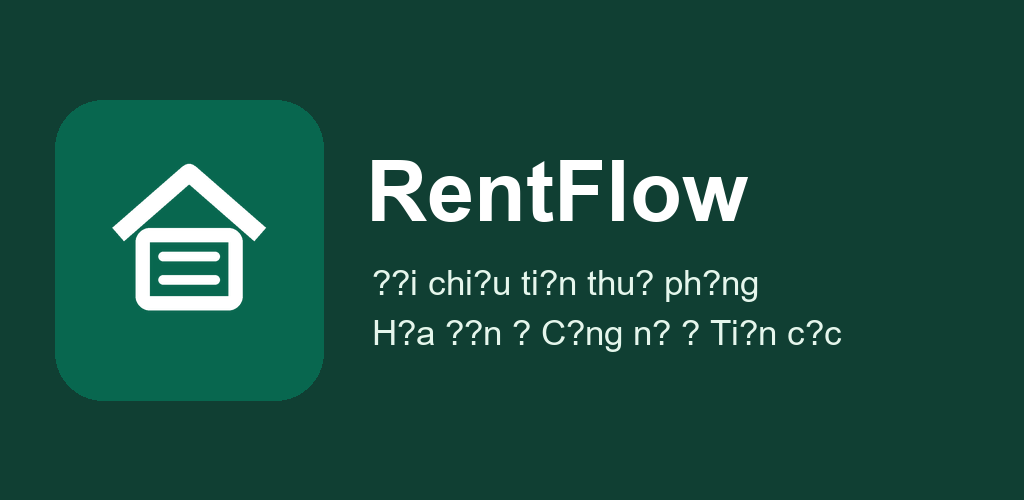
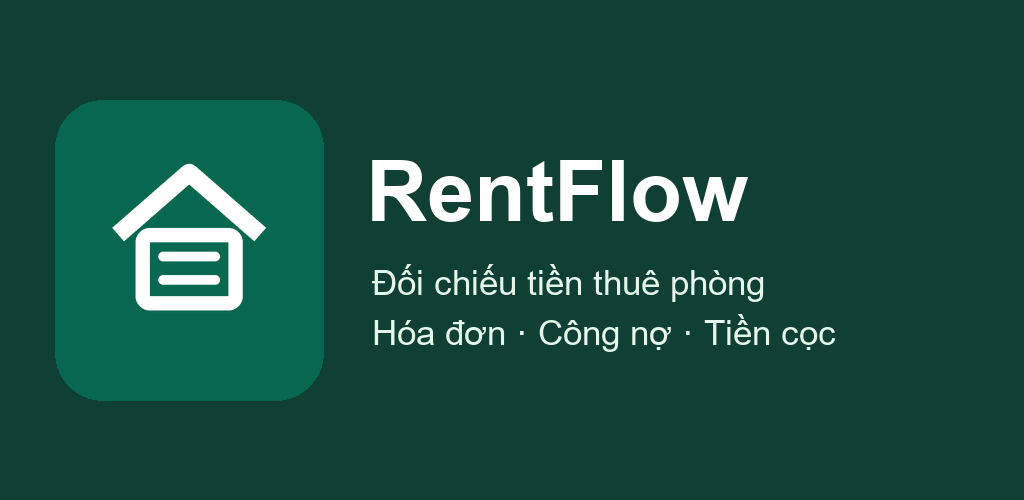
test: verify local HTTPS and polish Vietnamese release UI

Changed region(s): [[0.4375, 0.63, 0.8438, 0.72], [0.3438, 0.54, 0.75, 0.6], [0.375, 0.63, 0.4062, 0.69]]

diff --git a/mobile/App.tsx b/mobile/App.tsx
@@ -28,6 +28,7 @@ type Ledger = Lease & {
 const status: Record<string, string> = {
   ACTIVE: 'Đang thuê', DRAFT: 'Nháp', TERMINATED: 'Đã trả phòng', EXPIRED: 'Hết hạn',
   PENDING: 'Chờ xác nhận', CONFIRMED: 'Đã xác nhận', REVERSED: 'Đã đảo',
+  ISSUED: 'Chưa thanh toán', PARTIALLY_PAID: 'Đã trả một phần', PAID: 'Đã thanh toán',
   CASH: 'Tiền mặt', TRANSFER: 'Chuyển khoản', DEPOSIT: 'Bù cọc',
 };
 
@@ -111,7 +112,7 @@ export default function App() {
     .sort((a, b) => b.billingPeriod.localeCompare(a.billingPeriod))[0];
   const date = (value: string) => new Date(value).toLocaleDateString('vi-VN', { timeZone: 'Asia/Ho_Chi_Minh' });
   const website = (path: string) => void run(async () => {
-    if (!origin) throw new Error('Ch?a c? ??a ch? website.');
+    if (!origin) throw new Error('Chưa có địa chỉ website.');
     await Linking.openURL(origin + path);
   });
 
@@ -128,10 +129,10 @@ export default function App() {
     </View> : <>
       <Text style={styles.heading}>{dash.actor.fullName}</Text>
       <View style={styles.card}>
-        <Text style={styles.heading}>T?ng quan</Text>
-        <Text>{activeLease ? 'Ph?ng ' + activeLease.room.roomCode : 'Ch?a c? ph?ng ?ang thu?.'}</Text>
-        {latest ? <Text>K? {latest.billingPeriod} ? T?ng {money(latest.totalAmount)} ? ?? thu {money(latest.paidAmount)} ? C?n n? {money(latest.remainingAmount)}</Text> : <Text>Ch?a c? h?a ??n cho ph?ng ?ang thu?.</Text>}
-        <Button label="T?i d? li?u m?i" disabled={busy} press={() => void run(async () => {
+        <Text style={styles.heading}>Tổng quan</Text>
+        <Text>{activeLease ? 'Phòng ' + activeLease.room.roomCode : 'Chưa có phòng đang thuê.'}</Text>
+        {latest ? <Text>Kỳ {latest.billingPeriod} · Tổng {money(latest.totalAmount)} · Đã thu {money(latest.paidAmount)} · Còn nợ {money(latest.remainingAmount)}</Text> : <Text>Chưa có hóa đơn cho phòng đang thuê.</Text>}
+        <Button label="Tải dữ liệu mới" disabled={busy} press={() => void run(async () => {
           setDash(await request<Dashboard>('overview', token));
           if (ledger) setLedger(await request<Ledger>('leases/' + ledger.id + '/ledger', token));
         })} />
@@ -151,8 +152,8 @@ export default function App() {
       {ledger && <View style={styles.card}>
         <Text style={styles.heading}>Phòng {ledger.room.roomCode}</Text>
         <Text>{new Date(ledger.startDate).toLocaleDateString('vi-VN')} – {new Date(ledger.endDate).toLocaleDateString('vi-VN')}</Text>
-        <Text>Ti?n thu? {money(ledger.rentAmount)} ? {status[ledger.status] ?? ledger.status}</Text>
-        {ledger.tenants.filter(member => member.representative).map(member => <Text key={member.tenant.fullName}>??i di?n {member.tenant.fullName}</Text>)}
+        <Text>Tiền thuê {money(ledger.rentAmount)} · {status[ledger.status] ?? ledger.status}</Text>
+        {ledger.tenants.filter(member => member.representative).map(member => <Text key={member.tenant.fullName}>Đại diện {member.tenant.fullName}</Text>)}
         <Button label={settlement ? 'Thu gọn quyết toán' : 'Xem quyết toán'} disabled={busy} press={() => setSettlement(!settlement)} />
         {settlement && <>
           <Text>Cọc thỏa thuận {money(ledger.depositAgreed)} · Thực nhận {money(ledger.depositReceived)}</Text>
@@ -164,6 +165,7 @@ export default function App() {
         </>}
         {ledger.invoices.map(invoice => <View key={invoice.id} style={styles.section}>
           <Text style={styles.heading}>Hóa đơn {invoice.billingPeriod}</Text>
+          <Text>Hạn {date(invoice.dueDate)} · {status[invoice.status]}</Text>
           <Text>Tổng {money(invoice.totalAmount)} · Đã thu {money(invoice.paidAmount)} · Còn nợ {money(invoice.remainingAmount)}</Text>
           <Button label={expanded === invoice.id ? 'Thu gọn cách tính' : 'Xem cách tính'} disabled={busy} press={() => setExpanded(expanded === invoice.id ? '' : invoice.id)} />
           {expanded === invoice.id && <>
@@ -180,11 +182,11 @@ export default function App() {
         {dash.notifications.length ? dash.notifications.map(entry => <Text key={entry.id}>{entry.message}</Text>) : <Text>Chưa có thông báo.</Text>}
       </View>
       <View style={styles.card}>
-        <Text style={styles.heading}>T?i kho?n v? quy?n ri?ng t?</Text>
+        <Text style={styles.heading}>Tài khoản và quyền riêng tư</Text>
         <Text>{dash.actor.email}</Text>
-        <Button label="Quy?n ri?ng t?" disabled={busy} press={() => website('/quyen-rieng-tu')} />
-        <Button label="Y?u c?u x?a t?i kho?n" disabled={busy} press={() => website('/xoa-tai-khoan')} />
-        <Button label="Li?n h? h? tr?" disabled={busy} press={() => void run(async () => { await Linking.openURL('mailto:hoangphung.tech@gmail.com'); })} />
+        <Button label="Quyền riêng tư" disabled={busy} press={() => website('/quyen-rieng-tu')} />
+        <Button label="Yêu cầu xóa tài khoản" disabled={busy} press={() => website('/xoa-tai-khoan')} />
+        <Button label="Liên hệ hỗ trợ" disabled={busy} press={() => void run(async () => { await Linking.openURL('mailto:hoangphung.tech@gmail.com'); })} />
       </View>
     </>}
   </ScrollView>;

diff --git a/backend/prisma/seed.ts b/backend/prisma/seed.ts
@@ -296,11 +296,11 @@ async function main() {
   }
   const representative = await prisma.tenant.upsert({
     where: { propertyId_userId: { propertyId: IDS.PROP_A, userId: IDS.RENTER_A } },
-    update: {}, create: { propertyId: IDS.PROP_A, userId: IDS.RENTER_A, fullName: "Ng??i thu? m?u A" },
+    update: {}, create: { propertyId: IDS.PROP_A, userId: IDS.RENTER_A, fullName: "Người thuê mẫu A" },
   });
   const companion = await prisma.tenant.upsert({
     where: { id: "88888888-8888-4888-8888-888888888801" }, update: {},
-    create: { id: "88888888-8888-4888-8888-888888888801", propertyId: IDS.PROP_A, fullName: "Ng??i ? c?ng m?u" },
+    create: { id: "88888888-8888-4888-8888-888888888801", propertyId: IDS.PROP_A, fullName: "Người ở cùng mẫu" },
   });
   await prisma.leaseTenant.createMany({ data: [
     { leaseId: IDS.LEASE_A, tenantId: representative.id, representative: true },
@@ -308,7 +308,7 @@ async function main() {
   ], skipDuplicates: true });
   await prisma.handover.upsert({ where: { leaseId_kind: { leaseId: IDS.LEASE_A, kind: "IN" } },
     update: {}, create: { leaseId: IDS.LEASE_A, kind: "IN", date: effectiveDate, confirmedAt: effectiveDate,
-      condition: "Ph?ng s?ch, thi?t b? ho?t ??ng", inventory: "M?t gi??ng, m?t qu?t", electric: 100, water: 20 } });
+      condition: "Phòng sạch, thiết bị hoạt động", inventory: "Một giường, một quạt", electric: 100, water: 20 } });
   await prisma.$transaction(async tx => {
     const invoiceId = IDS.INVOICE_A_2026_11;
     const requestKey = "99999999-9999-4999-8999-999999999901";
@@ -339,13 +339,13 @@ async function main() {
       depositReceived: received.toFixed(2), startDate: effectiveDate, endDate: checkout, status: "TERMINATED",
       tenants: { create: { tenantId: representative.id, representative: true } },
       handovers: { create: [
-        { kind: "IN", date: effectiveDate, confirmedAt: effectiveDate, condition: "Ph?ng nguy?n tr?ng", inventory: "M?t qu?t", electric: 0, water: 0 },
-        { kind: "OUT", date: checkout, confirmedAt: checkout, condition: "C?ng t?c qu?t c?n s?a", inventory: "M?t qu?t", electric: 0, water: 0 },
+        { kind: "IN", date: effectiveDate, confirmedAt: effectiveDate, condition: "Phòng nguyên trạng", inventory: "Một quạt", electric: 0, water: 0 },
+        { kind: "OUT", date: checkout, confirmedAt: checkout, condition: "Công tắc quạt cần sửa", inventory: "Một quạt", electric: 0, water: 0 },
       ] },
       invoices: { create: {
         id: invoiceId, billingPeriod: "2026-11", totalAmount: 500000, paidAmount: 500000, remainingAmount: 0,
         dueDate: checkout, issuedAt: checkout, status: "PAID",
-        items: { create: { itemType: "RENT", description: "Ti?n thu? c?n l?i", quantity: 1, snapshotUnitPrice: 500000, lineTotal: 500000 } },
+        items: { create: { itemType: "RENT", description: "Tiền thuê còn lại", quantity: 1, snapshotUnitPrice: 500000, lineTotal: 500000 } },
         payments: { create: {
           requestKey: "99999999-9999-4999-8999-999999999903", amount: debtOffset.toFixed(2), method: "DEPOSIT",
           status: "CONFIRMED", confirmedAt: checkout,
@@ -354,10 +354,10 @@ async function main() {
       settlement: { create: {
         received: received.toFixed(2), deduction: deduction.toFixed(2), debtOffset: debtOffset.toFixed(2),
         refund: received.minus(deduction).minus(debtOffset).toFixed(2), invoiceId, confirmedBy: IDS.OWNER_A,
-        reason: "S?a c?ng t?c qu?t theo bi?n b?n tr? ph?ng v? b? ti?n thu? c?n l?i", createdAt: checkout,
+        reason: "Sửa công tắc quạt theo biên bản trả phòng và bù tiền thuê còn lại", createdAt: checkout,
       } },
     } });
-    await tx.notification.create({ data: { userId: IDS.RENTER_A, event: "settlement:" + leaseId, message: "?? ch?t quy?t to?n c?c ph?ng R110" } });
+    await tx.notification.create({ data: { userId: IDS.RENTER_A, event: "settlement:" + leaseId, message: "Đã chốt quyết toán cọc phòng R110" } });
   });
 
   console.log(

diff --git a/backend/src/rental.ts b/backend/src/rental.ts
@@ -57,7 +57,7 @@ export class RentalController {
   async deletionRequest(@Req() { actor }: SessionRequest, @Body() body: unknown) {
     const { password } = parse(z.object({ password: z.string().min(1).max(128) }), body);
     const user = await db.user.findUniqueOrThrow({ where: { id: actor.id }, select: { passwordHash: true } });
-    if (!matchesPassword(password, user.passwordHash)) throw new UnauthorizedException('M?t kh?u x?c minh kh?ng ??ng');
+    if (!matchesPassword(password, user.passwordHash)) throw new UnauthorizedException('Mật khẩu xác minh không đúng');
     return atomic(async tx => {
       const previous = await tx.accountDeletionRequest.findUnique({ where: { userId: actor.id } });
       if (previous) return { status: previous.status, requestedAt: previous.requestedAt, reviewedAt: previous.reviewedAt };
@@ -90,7 +90,7 @@ export class RentalController {
       lease: { tenants: { some: { tenant: { userId } } } },
     }, select: { id: true, billingPeriod: true } });
     if (invoices.length) await db.notification.createMany({
-      data: invoices.map(invoice => ({ userId, event: 'due:' + invoice.id, message: 'H?a ??n s?p ??n h?n k? ' + invoice.billingPeriod })),
+      data: invoices.map(invoice => ({ userId, event: 'due:' + invoice.id, message: 'Hóa đơn sắp đến hạn kỳ ' + invoice.billingPeriod })),
       skipDuplicates: true,
     });
   }
@@ -127,8 +127,8 @@ export class RentalController {
       const active = await tx.lease.findFirst({
         where: { roomId, status: { in: ['ACTIVE', 'EXPIRED'] } }, include: { _count: { select: { tenants: true } } },
       });
-      requireCondition(Boolean(active) === (data.status === 'OCCUPIED'), 'Tr?ng th?i ph?ng ph?i ph? h?p h?p ??ng ?ang gi? ph?ng');
-      requireCondition(!active || data.maxOccupants >= active._count.tenants, 'S?c ch?a nh? h?n s? ng??i ?ang ?');
+      requireCondition(Boolean(active) === (data.status === 'OCCUPIED'), 'Trạng thái phòng phải phù hợp hợp đồng đang giữ phòng');
+      requireCondition(!active || data.maxOccupants >= active._count.tenants, 'Sức chứa nhỏ hơn số người đang ở');
       const updated = await tx.room.update({ where: { id: room.id }, data });
       await audit(tx, actor, 'ROOM_UPDATED', room.id);
       return updated;

diff --git a/web/app/quan-ly/forms.tsx b/web/app/quan-ly/forms.tsx
@@ -24,6 +24,7 @@ export function AdminForms({ overview, tab, current, write }: { overview: Overvi
   if (tab === 'Khu trọ & phòng' && owner) return <div className="forms">
     <Action title="Tạo khu trọ" fields={[field('name','Tên khu'), field('address','Địa chỉ')]} submit={values => write('properties', values)} />
     <Action title="Tạo phòng" fields={[property, field('roomCode','Mã phòng'), n('baseRentPrice','Giá thuê'), n('maxOccupants','Sức chứa'), select('status','Trạng thái',[['AVAILABLE','Trống'],['MAINTENANCE','Bảo trì']])]} submit={scoped('properties', propertyField, '/rooms')} />
+    <Action title="Cập nhật phòng" fields={[rooms, n('baseRentPrice','Giá thuê mới'), n('maxOccupants','Sức chứa'), select('status','Trạng thái',[['AVAILABLE','Trống'],['MAINTENANCE','Bảo trì'],['OCCUPIED','Đang thuê']])]} submit={scoped('rooms','roomId','/settings')} />
   </div>
   if (tab === 'Người thuê' && operations) return <Action title="Thêm người thuê" fields={[
     property, field('fullName','Họ tên'), field('contact','Liên hệ','text',true), ...(owner ? [field('email','Email tài khoản đã cấp','email',true)] : []),
@@ -45,6 +46,9 @@ export function AdminForms({ overview, tab, current, write }: { overview: Overvi
       select('invoiceId','Hóa đơn bù nợ',invoices.filter(row => row.leaseId === chosen.id && Number(row.remainingAmount) > 0).map(row => [row.id, row.billingPeriod]),true),
     ]} submit={values => write('leases/' + chosen.id + '/settlement', values)} />}
   </div>
+  if (tab === 'Cài đặt' && owner) return <Action title="Phân quyền theo khu trọ" fields={[
+    property, field('email','Email nhân viên hoặc kế toán','email'), select('operation','Thao tác',[['GRANT','Cấp quyền'],['REVOKE','Thu hồi']]),
+  ]} submit={scoped('properties',propertyField,'/access')} />
   if (tab === 'Cài đặt') return <p>Vai trò tài khoản hiện tại · {{ OWNER: 'Chủ trọ', STAFF: 'Nhân viên', ACCOUNTANT: 'Kế toán' }[actor.role]}</p>
   return null
 }

diff --git a/web/app/page.tsx b/web/app/page.tsx
@@ -21,11 +21,11 @@ export default function Home() {
         <article><h2>Trả phòng & tiền cọc</h2><p>Đối chiếu tiền thực nhận, chi phí khấu trừ, bù nợ và số tiền hoàn.</p></article>
       </section>
       <section className="product-preview">
-        <h2>H?a ??n m?u ph?ng R101</h2>
-        <Image src={ledger} alt="S? ??i chi?u RentFlow hi?n th? c?ng n?, c?ch t?nh ?i?n n??c v? l?ch s? x?c nh?n thanh to?n c?a h?a ??n m?u R101" sizes="(max-width: 768px) 100vw, 960px" />
+        <h2>Hóa đơn mẫu phòng R101</h2>
+        <Image src={ledger} alt="Sổ đối chiếu RentFlow hiển thị công nợ, cách tính điện nước và lịch sử xác nhận thanh toán của hóa đơn mẫu R101" sizes="(max-width: 768px) 100vw, 960px" />
       </section>
       <section id="dung-thu"><Trial /></section>
     </main>
-    <footer className="mast"><strong>RentFlow</strong><span>Đăng ký bên trên để nhóm liên hệ với bạn.</span></footer>
+    <footer className="mast"><strong>RentFlow</strong><Link href="/quyen-rieng-tu">Quyền riêng tư</Link><a href="mailto:hoangphung.tech@gmail.com">Liên hệ nhóm RentFlow</a></footer>
   </>
 }

diff --git a/scripts/test-production-local.py b/scripts/test-production-local.py
@@ -1,4 +1,5 @@
-"""Smoke test the production images on an isolated, loopback-only Windows stack."""
+"""Smoke test the production images on an isolated, loopback-only Windows stack."""
+import json
 import os
 import pathlib
 import subprocess
@@ -57,15 +58,19 @@ def main():
             invoke([*compose, "cp", "edge:/data/caddy/pki/authorities/local/root.crt", str(certificate)])
             curl = [
                 "curl.exe", "--noproxy", "*", "--silent", "--show-error", "--fail", "--retry", "5",
-                "--retry-all-errors", "--cacert", str(certificate), "--resolve", f"{DOMAIN}:18443:127.0.0.1",
+                "--retry-all-errors", "--ssl-revoke-best-effort", "--cacert", str(certificate), "--resolve", f"{DOMAIN}:18443:127.0.0.1",
             ]
             for path in ["/", "/quyen-rieng-tu", "/xoa-tai-khoan", "/api/health"]:
                 response = invoke([*curl, "https://" + DOMAIN + ":18443" + path], stdout=subprocess.PIPE).stdout
                 if not response or (path == "/api/health" and b'"status":"ok"' not in response):
                     raise RuntimeError("Invalid HTTPS smoke response for " + path)
                 print("HTTPS smoke PASS", path, flush=True)
-            mapping = subprocess.run([*compose, "port", "mysql", "3306"], env=environment, capture_output=True)
-            if mapping.stdout.strip():
+            mysql = invoke([*compose, "ps", "-q", "mysql"], capture_output=True, text=True).stdout.strip()
+            bindings = invoke(
+                ["docker", "inspect", "--format", "{{json .HostConfig.PortBindings}}", mysql],
+                capture_output=True, text=True,
+            ).stdout
+            if any((json.loads(bindings) or {}).values()):
                 raise RuntimeError("MySQL unexpectedly has a host port")
             print("MySQL 3306 has no host mapping", flush=True)
         finally:

diff --git a/docs/production/TEST_REPORT.md b/docs/production/TEST_REPORT.md
@@ -1,15 +1,20 @@
-# Báo cáo kiểm thử V5
+# Báo cáo kiểm thử V5
+
+**Commit triển khai** `853aac751e4b3bc050aded0d948e4b05b222ddf8`. Commit tiếp theo có mã smoke và rà soát giao diện tiếng Việt.
 
 | ID | Môi trường và thao tác | Kết quả |
 |---|---|---|
-| V5-01 | Windows, demo Compose, Prisma migration deploy | 3 migration trên MySQL 8.0.46, app build và health 200 |
-| V5-02 | `npm.cmd --prefix backend test` qua Next và MySQL | 13/13. Scope owner, staff và renter, concurrency, công nợ, cọc và lưu trial |
-| V5-03 | PR01 qua API và CLI trên MySQL | Sai mật khẩu 401, gửi lặp cùng request, đọc trạng thái theo account, CLI xóa profile tài khoản thử và thu hồi phiên |
-| V5-04 | `npm.cmd --prefix web test` trên Edge | 6/6. Trang renter 360/768/1366 px, Web Admin, mất mạng và retry form |
-| V5-05 | `docker compose ... config --quiet` | Cấu hình tổng hợp được chấp nhận, domain thật chưa có |
-| V5-06 | `npm.cmd --prefix mobile run typecheck` và `npm.cmd --prefix mobile run build` | Typecheck và bundle Android pass |
+| V5-01 | Windows, Compose demo, Prisma migration deploy | 3 migration trên MySQL 8.0.46, app build và health 200 |
+| V5-02 | `npm.cmd --prefix backend test` qua Next và MySQL | 13/13. Phân quyền, concurrency, công nợ, cọc và lưu trial |
+| V5-03 | PR01 qua API và CLI trên MySQL | Sai mật khẩu 401, gửi lặp cùng request, đọc trạng thái theo tài khoản, CLI xử lý tài khoản thử và thu hồi phiên |
+| V5-04 | `npm.cmd --prefix web test` trên Edge | 6/6. Giao diện người thuê ở 360/768/1366 px, Web Admin, mất mạng và retry form |
+| V5-05 | `docker compose ... config --quiet` và `caddy validate` | Cấu hình tổng hợp hợp lệ. Ba image Linux API, Web và migration build thành công |
+| V5-06 | Typecheck, Expo export Android và Expo config introspect | Bundle Android và cấu hình target 36 xác minh; mode release từ chối localhost HTTP |
 | V5-07 | Cài APK lên máy thật, truy cập chung qua Internet | BLOCKED, cần APK ký, thiết bị và staging HTTPS |
 | V5-08 | AAB và Play Console | BLOCKED, cần app ID được xác nhận, signing và tài khoản |
-| V5-09 | `npm audit --omit=dev` backend | Phát hiện 4 cảnh báo cao liên quan Prisma CLI/config, phương án sửa npm báo cần Prisma 7.10.1. Dockerfile tách migration và runtime, cần xác minh dependency runtime image và xử lý trước production |
+| V5-09 | `npm audit --omit=dev` và kiểm tra Docker runtime | 4 cảnh báo cao ở Prisma CLI/config. Docker runtime có Prisma Client và không resolve được prisma, @prisma/config, effect, deepmerge-ts. Cảnh báo còn ở image migration |
+| V5-10 | Dump MySQL demo, restore vào MySQL 8 biệt lập trên tmpfs | PASS. Khớp tổng hóa đơn 3.620.000đ, đã thu 2.000.000đ, nợ 1.620.000đ, hoàn cọc 1.200.000đ |
+| V5-11 | 8 POST yêu cầu xóa không có phiên từ loopback | 6 × HTTP 401, 2 × HTTP 429 có Retry-After |
+| V5-12 | `python scripts/test-production-local.py` trên loopback, CA nội bộ Caddy, DB riêng | HTTPS 200 ở Landing, quyền riêng tư, xóa tài khoản và API health. MySQL không xuất cổng ra host, 3 migration được áp lên DB biệt lập |
 
-Case tài chính kế thừa [Test Report V4](../final-demo/TEST_REPORT.md). Không có dữ liệu người dùng thật. Bài kiểm thử liên thông cần chạy ở staging theo thứ tự Web phát hành → Android thấy hóa đơn → Web xác nhận thanh toán → Android cập nhật → đối chiếu MySQL.
+Case tài chính kế thừa [Test Report V4](../final-demo/TEST_REPORT.md). Dữ liệu thử đều giả lập. Bài kiểm thử liên thông cần chạy trên staging theo thứ tự Web phát hành → Android thấy hóa đơn → Web xác nhận thanh toán → Android cập nhật → đối chiếu MySQL.

diff --git a/docs/production/DEPLOYMENT_GUIDE.md b/docs/production/DEPLOYMENT_GUIDE.md
@@ -1,4 +1,4 @@
-# Triển khai VPS
+# Triển khai VPS
 
 Cần VPS Linux được ủy quyền, Docker + Compose, DNS thật, SSH, và thư mục lưu backup có quyền hạn chế. Clone đúng nhánh và kiểm tra Git SHA. Tạo file môi trường riêng ngoài repository theo `deploy/.env.production.example`. Dùng password mạnh khác nhau, URL của tài khoản ứng dụng trỏ đến `mysql:3306/rentflow`, mã hóa URL password nếu cần. Đặt quyền file 600.
 
@@ -16,3 +16,7 @@ Tạo tài khoản đầu tiên bằng lệnh operator đọc JSON từ stdin qu
 ## Rollback
 
 Nếu migration tương thích ngược, đặt `RENTFLOW_RELEASE` về SHA đã lưu và chạy `docker compose --env-file "$RENTFLOW_ENV_FILE" -p rentflow-production -f deploy/compose.production.yml up -d --no-build api web edge`. Kiểm tra health và dữ liệu. Nếu migration không tương thích, dừng ghi để chọn forward fix hoặc restore sang môi trường riêng, xác định chênh lệch sau backup trước khi chuyển dịch vụ.
+
+## Kiểm thử image trước VPS
+
+Build image với `RENTFLOW_RELEASE=local-build-check` và cấu hình tổng hợp bằng `docker compose -f deploy/compose.production.yml build api web migrate`. Trên Windows, `python scripts/test-production-local.py` dùng các image này để kiểm tra HTTPS qua CA nội bộ trên loopback, rồi dừng container. Kiểm tra DNS và ACME trên VPS là bước riêng.

diff --git a/docs/production/STORE_LISTING.md b/docs/production/STORE_LISTING.md
@@ -8,4 +8,4 @@
 
 **Danh mục đề xuất** Productivity. **Quảng cáo** không có trong mã nguồn. **Đối tượng** người thuê và người quản lý trưởng thành, chủ tài khoản điền kết quả theo câu hỏi Play Console. **Liên hệ dự án** hoangphung.tech@gmail.com; cần chủ tài khoản xác nhận dùng cho hỗ trợ công khai.
 
-**Release notes** Phiên bản đầu cho người thuê, thêm tổng quan, hóa đơn, sổ đối chiếu, tiền cọc và quyền riêng tư. Icon nguồn tại `mobile/assets/`. Feature graphic và ảnh màn hình thiết bị chưa có. URL privacy và xóa tài khoản cần domain thật. Content rating và thông tin quyền truy cập sẽ điền khi có draft trên Play.
+**Release notes** Phiên bản đầu cho người thuê, thêm tổng quan, hóa đơn, sổ đối chiếu, tiền cọc và quyền riêng tư. Icon và feature graphic 1024 × 500 nằm tại `mobile/assets/`. Ảnh màn hình Android cần chụp trên thiết bị thật. URL privacy và xóa tài khoản cần domain thật. Content rating và thông tin quyền truy cập sẽ điền khi có draft trên Play.

diff --git a/README.md b/README.md
@@ -29,15 +29,16 @@ Mật khẩu của tài khoản mẫu do người chạy đặt trong `DEMO_PASS
 ## Bàn giao
 
 - [Trạng thái P01–P07](docs/final-demo/PRODUCT_STATUS.md)
+- [Thiết kế và hướng dẫn baseline](docs/final-demo/BASELINE_README.md)
 - [Kiến trúc](docs/final-demo/ARCHITECTURE.md)
 - [Báo cáo kiểm thử](docs/final-demo/TEST_REPORT.md)
 - [Báo cáo bảo mật](docs/final-demo/SECURITY_REPORT.md)
 - [Kịch bản trình bày và phản biện](docs/final-demo/DEMO_AND_DEFENSE.md)
 - [Giới hạn và checklist bản phát hành](docs/final-demo/RELEASE_CHECKLIST.md)
 
-## Production v? Google Play
+## Production và Google Play
 
-- [Tr?ng th?i ph?t h?nh](docs/production/RELEASE_STATUS.md)
-- [Tri?n khai VPS](docs/production/DEPLOYMENT_GUIDE.md)
+- [Trạng thái phát hành](docs/production/RELEASE_STATUS.md)
+- [Triển khai VPS](docs/production/DEPLOYMENT_GUIDE.md)
 - [Android Release](docs/production/ANDROID_RELEASE.md)
 - [Google Play checklist](docs/production/GOOGLE_PLAY_CHECKLIST.md)

diff --git a/docs/production/BACKUP_RESTORE.md b/docs/production/BACKUP_RESTORE.md
@@ -5,4 +5,4 @@
 - Kiểm tra `gzip -t`. Tạo container/schema MySQL 8 biệt lập, chuyển dump vào `mysql` của môi trường đó qua stdin và tài khoản phục hồi. Kiểm tra số migration, mẫu hợp đồng, dư nợ, khoản thu và quyết toán. Ghi thời gian và kết quả.
 - Raw dump có thể chứa dữ liệu cá nhân. Chỉ dùng dữ liệu giả khi diễn tập công khai. Không khôi phục vào production đến khi phân tích dữ liệu phát sinh sau thời điểm backup và được người phụ trách duyệt.
 
-Di?n t?p local ng?y 21/11/2026 d?ng `mysqldump` t? MySQL demo v? ph?c h?i v?o m?t container MySQL 8 tmpfs. B?n gi? tr? ??i chi?u kh?p. L?ch sao l?u ngo?i VPS v? ph?c h?i t? kho l?u tr? th?t ch?a ???c ch?y.
+Diễn tập local ngày 21/11/2026 dùng `mysqldump` từ MySQL demo và phục hồi vào một container MySQL 8 trên tmpfs. Bốn giá trị đối chiếu khớp. Lịch sao lưu ngoài VPS và phục hồi từ kho lưu trữ thật chưa được chạy.

diff --git a/docs/production/SECURITY_CHECKLIST.md b/docs/production/SECURITY_CHECKLIST.md
@@ -5,6 +5,7 @@
 - [x] Handler giới hạn theo IP cho login, form và yêu cầu xóa. Một instance, lưu trạng thái giới hạn trong bộ nhớ.
 - [x] Android thiết kế lưu bearer trong SecureStore và giữ dữ liệu tài chính trong bộ nhớ. Kiểm thử thiết bị còn thiếu.
 - [ ] Xác minh TLS thật, cấu hình proxy và logging trên VPS.
-- [ ] Duyệt kết quả npm audit runtime, xử lý cảnh báo vượt ngưỡng.
+- [x] Xác minh runtime image không chứa chuỗi Prisma CLI đã bị cảnh báo.
+- [ ] Xử lý và kiểm tra lại cảnh báo ở image migration trước production.
 - [ ] Xác nhận phương án khôi phục tài khoản, xóa tài khoản, vận hành backup ngoài máy và giám sát theo lịch.
 - [ ] Chạy kiểm thử web/Android liên thông qua Internet bằng tài khoản thật đã cấp trong staging.
